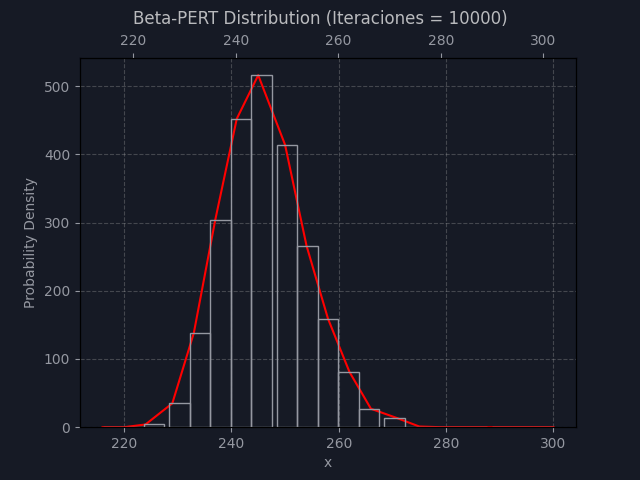
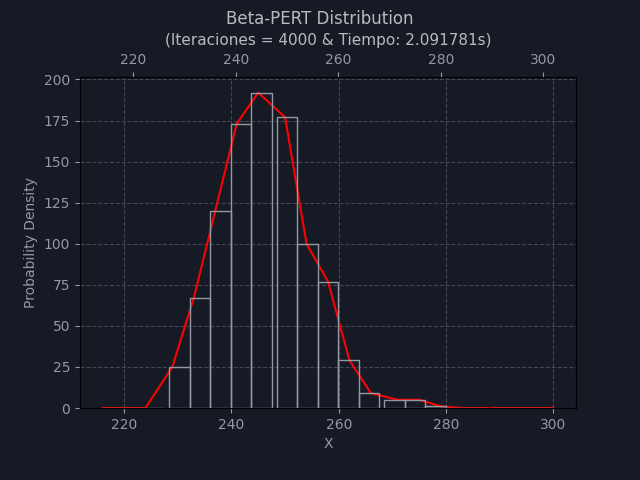
Version Estable 20230701 183215

diff --git a/simulacion_montecarlo/simulacion_montecarlo.py b/simulacion_montecarlo/simulacion_montecarlo.py
@@ -12,21 +12,27 @@ subprocess.run('clear', shell=True)
 
 msg_seg = 'Presione un tecla para continuar: '
 
-def report(__var__, __step__, __status__=None):
-    report_steps = [
-        'Mostrando inputs: ',
-        'Valores acumulados de la ruta critica: ',
-        'Mostrando simulaciones: ',
-        'Tiempo de calculo: ',
-        'Generando particion: ',
-        'Distribucion de frecuencias: ',
-    ]
-    if __status__==None:
-        input(f'\n{report_steps[__step__]}\n{__var__}\n{msg_seg}')
+def report(__list_steps__, __status__):
+    if __status__   ==0:
+        for i in __list_steps__:
+            print(f'{__list_steps__[i][0]} Listo!'.replace(': ', ' - '))
+    elif __status__ ==1:
+        for i in __list_steps__:
+            input(f'\n{__list_steps__[i][0]}\n{__list_steps__[i][1]}\n{msg_seg}\n')
 
+num_interaciones = int(input('Paso 1 - Introduzca el numero de simulaciones: '))
 
+# Generando menu de presentacion de informe
+print('\nPaso 2 - Modos de presentacion del informe:\n')
+list_report_type = []
+list_report_type.append('Simple')
+list_report_type.append('Mostrar detalles')
+list_report_type.append('Enviar a Archivo Excel')
+for i in range(len(list_report_type)):
+    print(f'{i}. ', list_report_type[i])
+report_type = int(input('\nIntroduzca el tipo de reporte que desea: '))
 
-num_interaciones = int(input('Introduzca el numero de simulaciones: '))
+time_A = dt.now()
 
 # Generamos el Dataframe de Entradas
 activities = {
@@ -66,9 +72,8 @@ def gen_dist():
     return ans
 
 # Generando las simulaciones
-iteraciones = range(num_interaciones)
-simulaciones, times = [gen_dist()[2] for _ in iteraciones], [dt.now() for _ in iteraciones]
-time = times[-1] - times[0]
+iteraciones  = range(num_interaciones)
+simulaciones = [gen_dist()[2] for _ in iteraciones]
 
 # Generando distribucion de frecuencias
     ## Particionamos el espacio
@@ -86,19 +91,21 @@ def count_occurrences(__list1__, __list2__):
 
 occurrences = count_occurrences(particion, simulaciones)
 
+time_B = dt.now()
+time = time_B - time_A
+seconds = time.total_seconds()
 
-# Generando reportes
-list_steps = []
-list_steps.append(activities_df)
-list_steps.append(scale)
-list_steps.append(simulaciones)
-list_steps.append(time)
-list_steps.append(particion)
-list_steps.append(occurrences)
+# Generando reporte
+print('\nPaso 3: Generando reporte')
+list_steps = {}
+list_steps[0] = ['\t- Inputs: ', activities_df]
+list_steps[1] = ['\t- Valores acumulados de la ruta critica: ', scale]
+list_steps[2] = ['\t- Simulaciones: ', simulaciones]
+list_steps[3] = ['\t- Particion: ', particion]
+list_steps[4] = ['\t- Distribucion de frecuencias: ', occurrences]
+report(list_steps, report_type)
 
-for i in range(len(list_steps)):
-    report(list_steps[i], i)
-
+print(f'\nTiempo de calculo: {seconds}s\n')
 
 # Generamos el grafico
 # plt.style.use('dark_background')
@@ -107,9 +114,10 @@ contraste = 'white'
 letras = '#9598A1'
 file = 'beta_pert_distribution.png'
 msg = 'Plot saved as beta_pert_distribution.png'
-labelX = 'x'
+labelX = 'X'
 labelY = 'Probability Density'
-title = f'Beta-PERT Distribution (Iteraciones = {num_interaciones})'
+title = f'Beta-PERT Distribution'
+subtitle = f'(Iteraciones = {num_interaciones} & Tiempo: {seconds}s)'
 
 fig, ax = plt.subplots()
 x = particion
@@ -129,7 +137,9 @@ ax1.bar(x, y, edgecolor=letras, linewidth=1, width=4, facecolor='none')
 ax1.tick_params(colors=letras)
 
 # Save the plot as a PNG file
+fig.subplots_adjust(top=0.84, bottom=0.15)
 fig.suptitle(title, color=contraste, alpha=0.7)
+plt.title(subtitle, color=contraste, alpha=0.7, fontsize=11)
 fig.savefig(file)
 
 plt.close(fig)
